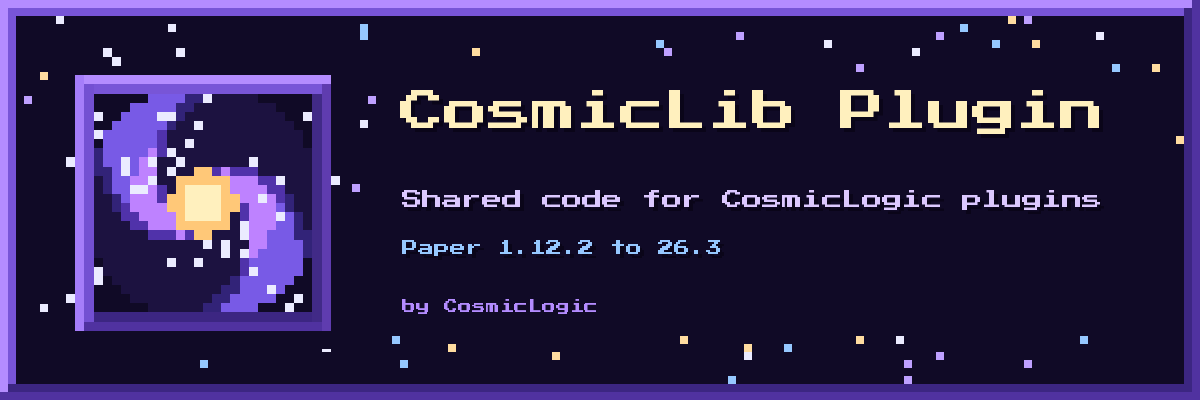
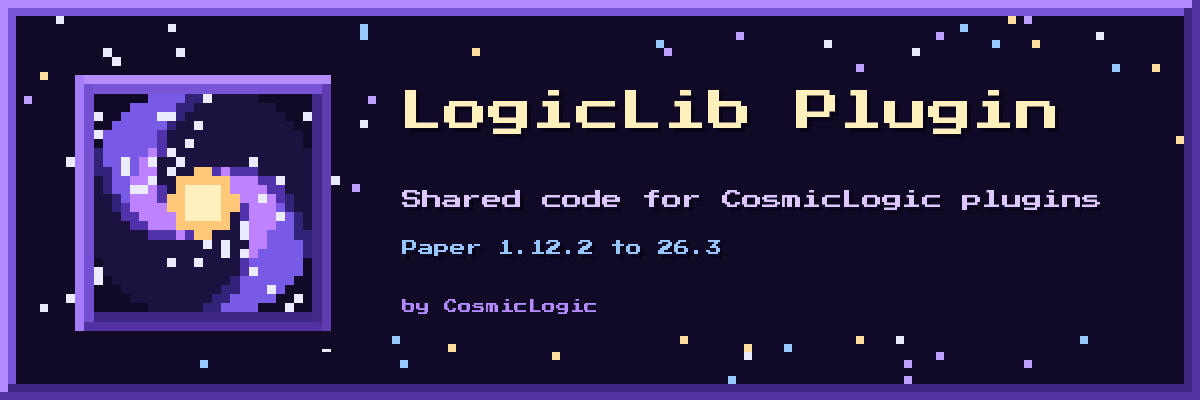
Rename CosmicLib to LogicLib
The name CosmicLib is already used on CurseForge by another mod, and its
mod id could clash on 1.12.2. New mod id: logiclib; package
com.cosmiclogic.logiclib; Paper plugin name: LogicLib.

Claude-Session: https://claude.ai/code/session_018RUrFYG8S8cBaRgmbJJgvQ

Changed region(s): [[0.4008, 0.21, 0.925, 0.36], [0.3083, 0.21, 0.37, 0.33]]

diff --git a/src/main/java/com/cosmiclogic/logiclib/paper/LogicVersion.java b/src/main/java/com/cosmiclogic/logiclib/paper/LogicVersion.java
@@ -1,4 +1,4 @@
-package com.cosmiclogic.cosmiclib.paper;
+package com.cosmiclogic.logiclib.paper;
 
 import org.bukkit.Bukkit;
 
@@ -7,25 +7,25 @@ import org.bukkit.Bukkit;
  * Works with both old numbers (1.12.2, 1.21.11) and year-based numbers (26.1, 26.3).
  *
  * <pre>{@code
- * if (CosmicVersion.current().isAtLeast(1, 20, 5)) { ... }
+ * if (LogicVersion.current().isAtLeast(1, 20, 5)) { ... }
  * }</pre>
  */
-public final class CosmicVersion implements Comparable<CosmicVersion> {
+public final class LogicVersion implements Comparable<LogicVersion> {
 
-    private static CosmicVersion current;
+    private static LogicVersion current;
 
     public final int major;
     public final int minor;
     public final int patch;
 
-    public CosmicVersion(int major, int minor, int patch) {
+    public LogicVersion(int major, int minor, int patch) {
         this.major = major;
         this.minor = minor;
         this.patch = patch;
     }
 
     /** The version of the running server (cached). */
-    public static CosmicVersion current() {
+    public static LogicVersion current() {
         if (current == null) {
             current = parse(Bukkit.getBukkitVersion());
         }
@@ -33,14 +33,14 @@ public final class CosmicVersion implements Comparable<CosmicVersion> {
     }
 
     /** Parses strings like "1.20.1-R0.1-SNAPSHOT" or "26.1.2". Unknown parts become 0. */
-    public static CosmicVersion parse(String text) {
+    public static LogicVersion parse(String text) {
         String clean = text == null ? "" : text.trim();
         int dash = clean.indexOf('-');
         if (dash >= 0) {
             clean = clean.substring(0, dash);
         }
         String[] parts = clean.split("\\.");
-        return new CosmicVersion(number(parts, 0), number(parts, 1), number(parts, 2));
+        return new LogicVersion(number(parts, 0), number(parts, 1), number(parts, 2));
     }
 
     private static int number(String[] parts, int index) {
@@ -63,7 +63,7 @@ public final class CosmicVersion implements Comparable<CosmicVersion> {
     }
 
     public boolean isAtLeast(int major, int minor, int patch) {
-        return compareTo(new CosmicVersion(major, minor, patch)) >= 0;
+        return compareTo(new LogicVersion(major, minor, patch)) >= 0;
     }
 
     public boolean isBelow(int major, int minor, int patch) {
@@ -71,7 +71,7 @@ public final class CosmicVersion implements Comparable<CosmicVersion> {
     }
 
     @Override
-    public int compareTo(CosmicVersion other) {
+    public int compareTo(LogicVersion other) {
         if (major != other.major) {
             return Integer.compare(major, other.major);
         }

diff --git a/src/main/java/com/cosmiclogic/logiclib/paper/LogicParticles.java b/src/main/java/com/cosmiclogic/logiclib/paper/LogicParticles.java
@@ -1,4 +1,4 @@
-package com.cosmiclogic.cosmiclib.paper;
+package com.cosmiclogic.logiclib.paper;
 
 import org.bukkit.Color;
 import org.bukkit.Location;
@@ -9,17 +9,17 @@ import org.bukkit.entity.Player;
  * from 1.12.2 to 26.x. Used for outlines and highlights (e.g. chests, ranges).
  *
  * <pre>{@code
- * CosmicParticles.box(player, minX, minY, minZ, maxX, maxY, maxZ, Color.AQUA);
- * CosmicParticles.circle(player, center, 20, Color.YELLOW);
+ * LogicParticles.box(player, minX, minY, minZ, maxX, maxY, maxZ, Color.AQUA);
+ * LogicParticles.circle(player, center, 20, Color.YELLOW);
  * }</pre>
  * Call it again every second or so to keep a shape visible (particles fade quickly).
  * Each call draws at most {@value #MAX_POINTS} particles to protect the server and the player.
  */
-public final class CosmicParticles {
+public final class LogicParticles {
 
     public static final int MAX_POINTS = 2000;
 
-    private CosmicParticles() {
+    private LogicParticles() {
     }
 
     /** A straight line from a to b, one particle every {@code step} blocks. */
@@ -65,7 +65,7 @@ public final class CosmicParticles {
     /** One colored dust particle for this player only. */
     public static void point(Player player, double x, double y, double z, Color color) {
         try {
-            if (CosmicVersion.current().isAtLeast(1, 13, 0)) {
+            if (LogicVersion.current().isAtLeast(1, 13, 0)) {
                 ModernDust.spawn(player, x, y, z, color);
             } else {
                 LegacyDust.spawn(player, x, y, z, color);

diff --git a/src/main/java/com/cosmiclogic/logiclib/paper/LogicLibPlugin.java b/src/main/java/com/cosmiclogic/logiclib/paper/LogicLibPlugin.java
@@ -1,0 +1,36 @@
+package com.cosmiclogic.logiclib.paper;
+
+import org.bukkit.plugin.java.JavaPlugin;
+
+/**
+ * LogicLib for Paper: shared code for CosmicLogic's Paper plugins. Adds no gameplay on its own.
+ *
+ * <p>Plugins that use it add {@code depend: [LogicLib]} to their plugin.yml (only if they really
+ * use it). Modules (v0.1.0):
+ * <ul>
+ *   <li>{@link LogicVersion} - which Minecraft version the server runs (1.12.2 ... 26.x)</li>
+ *   <li>{@link LogicConfigs} - config.yml with new keys added automatically</li>
+ *   <li>{@link LogicText} - colored chat messages with a prefix</li>
+ *   <li>{@link LogicParticles} - particle lines, boxes and circles that work on every version</li>
+ * </ul>
+ */
+public final class LogicLibPlugin extends JavaPlugin {
+
+    private static LogicLibPlugin instance;
+
+    @Override
+    public void onEnable() {
+        instance = this;
+        getLogger().info("LogicLib for Paper " + getDescription().getVersion() + " running on Minecraft " + LogicVersion.current());
+    }
+
+    @Override
+    public void onDisable() {
+        instance = null;
+    }
+
+    /** The running LogicLib plugin, or null if it isn't enabled. */
+    public static LogicLibPlugin get() {
+        return instance;
+    }
+}

diff --git a/src/main/java/com/cosmiclogic/logiclib/paper/LogicConfigs.java b/src/main/java/com/cosmiclogic/logiclib/paper/LogicConfigs.java
@@ -1,4 +1,4 @@
-package com.cosmiclogic.cosmiclib.paper;
+package com.cosmiclogic.logiclib.paper;
 
 import org.bukkit.configuration.file.FileConfiguration;
 import org.bukkit.plugin.java.JavaPlugin;
@@ -8,14 +8,14 @@ import org.bukkit.plugin.java.JavaPlugin;
  * server owner's other values.
  *
  * <pre>{@code
- * FileConfiguration config = CosmicConfigs.load(this);   // in onEnable()
+ * FileConfiguration config = LogicConfigs.load(this);   // in onEnable()
  * int range = config.getInt("range", 16);
  * }</pre>
  * The plugin must ship a default config.yml in its jar.
  */
-public final class CosmicConfigs {
+public final class LogicConfigs {
 
-    private CosmicConfigs() {
+    private LogicConfigs() {
     }
 
     public static FileConfiguration load(JavaPlugin plugin) {

diff --git a/src/main/java/com/cosmiclogic/logiclib/paper/LogicText.java b/src/main/java/com/cosmiclogic/logiclib/paper/LogicText.java
@@ -1,4 +1,4 @@
-package com.cosmiclogic.cosmiclib.paper;
+package com.cosmiclogic.logiclib.paper;
 
 import org.bukkit.ChatColor;
 import org.bukkit.command.CommandSender;
@@ -7,12 +7,12 @@ import org.bukkit.command.CommandSender;
  * Simple colored chat messages that work on every version (uses &-color codes).
  *
  * <pre>{@code
- * CosmicText.send(player, "&8[&bStash Radar&8]", "&aFound &f3 &achests.");
+ * LogicText.send(player, "&8[&bStash Radar&8]", "&aFound &f3 &achests.");
  * }</pre>
  */
-public final class CosmicText {
+public final class LogicText {
 
-    private CosmicText() {
+    private LogicText() {
     }
 
     /** Turns &-codes (like &a, &l) into colors. */

diff --git a/src/main/java/com/cosmiclogic/logiclib/paper/LegacyDust.java b/src/main/java/com/cosmiclogic/logiclib/paper/LegacyDust.java
@@ -1,4 +1,4 @@
-package com.cosmiclogic.cosmiclib.paper;
+package com.cosmiclogic.logiclib.paper;
 
 import org.bukkit.Color;
 import org.bukkit.Particle;

diff --git a/src/main/java/com/cosmiclogic/logiclib/paper/ModernDust.java b/src/main/java/com/cosmiclogic/logiclib/paper/ModernDust.java
@@ -1,4 +1,4 @@
-package com.cosmiclogic.cosmiclib.paper;
+package com.cosmiclogic.logiclib.paper;
 
 import org.bukkit.Color;
 import org.bukkit.Particle;

diff --git a/README.md b/README.md
@@ -1,9 +1,9 @@
-# CosmicLib for Paper
+# LogicLib for Paper
 
 Shared code library for CosmicLogic's Paper plugins. Adds no gameplay on its own.
 You only need it if one of CosmicLogic's plugins lists it as required.
 
-- Plugin name: `CosmicLib` · Package: `com.cosmiclogic.cosmiclib.paper` · License: MIT
+- Plugin name: `LogicLib` · Package: `com.cosmiclogic.logiclib.paper` · License: MIT
 - **One jar for Paper 1.12.2 → 26.3** (Java 8 bytecode, compiled against the 1.13.2 API, version-specific code is guarded)
 - The Forge/NeoForge library is in `..\mod\` (a separate project and jar)
 
@@ -11,15 +11,15 @@ You only need it if one of CosmicLogic's plugins lists it as required.
 Run `gradlew build` (Windows: `gradlew.bat build`). The jar is in `build/libs/`. Needs Java 17 to build; the jar runs on Java 8+.
 
 ## Using it in a plugin
-`plugin.yml`: `depend: [CosmicLib]` (only if the plugin really uses it).
+`plugin.yml`: `depend: [LogicLib]` (only if the plugin really uses it).
 During development: run `gradlew publishToMavenLocal` here (add the `maven-publish` plugin if needed), or reference the jar directly with `compileOnly files(...)`.
 
 | Class | What it does |
 |---|---|
-| `CosmicVersion` | `CosmicVersion.current().isAtLeast(1, 20, 5)` |
-| `CosmicConfigs` | `CosmicConfigs.load(this)` loads config.yml and adds new keys |
-| `CosmicText` | `CosmicText.send(player, "&8[&bMy Plugin&8]", "&aHello")` |
-| `CosmicParticles` | `box(...)`, `circle(...)`, `line(...)`: colored particles for one player, every version |
+| `LogicVersion` | `LogicVersion.current().isAtLeast(1, 20, 5)` |
+| `LogicConfigs` | `LogicConfigs.load(this)` loads config.yml and adds new keys |
+| `LogicText` | `LogicText.send(player, "&8[&bMy Plugin&8]", "&aHello")` |
+| `LogicParticles` | `box(...)`, `circle(...)`, `line(...)`: colored particles for one player, every version |
 
 ## Testing
-Every version it's tagged for must pass the Testing Protocol: start a Paper server of that version with CosmicLib + a plugin that uses it, and check the console has no errors.
+Every version it's tagged for must pass the Testing Protocol: start a Paper server of that version with LogicLib + a plugin that uses it, and check the console has no errors.

diff --git a/CHANGELOG.md b/CHANGELOG.md
@@ -1,8 +1,8 @@
-# CosmicLib for Paper changelog
+# LogicLib for Paper changelog
 
 ## 0.1.0
 - First version. One jar for Paper 1.12.2 to 26.3 (built for Java 8, compiled against the 1.13.2 API).
-- CosmicVersion: which Minecraft version the server runs (old and year-based numbers).
-- CosmicConfigs: config.yml with new keys added automatically.
-- CosmicText: colored chat messages with a prefix.
-- CosmicParticles: per-player colored particle lines, boxes and circles on every version.
+- LogicVersion: which Minecraft version the server runs (old and year-based numbers).
+- LogicConfigs: config.yml with new keys added automatically.
+- LogicText: colored chat messages with a prefix.
+- LogicParticles: per-player colored particle lines, boxes and circles on every version.

diff --git a/ci/README.md b/ci/README.md
@@ -1,4 +1,4 @@
 # CI helpers
 - `get-paper.sh <version>`: downloads the newest Paper server jar for that Minecraft version.
-- `server-test.sh`: starts the server with CosmicLib, waits for it to finish starting, stops it, and fails if CosmicLib didn't load or logged an error.
+- `server-test.sh`: starts the server with LogicLib, waits for it to finish starting, stops it, and fails if LogicLib didn't load or logged an error.
 Both are used by `.github/workflows/build.yml` for all 10 target versions (1.12.2 → 26.3).
